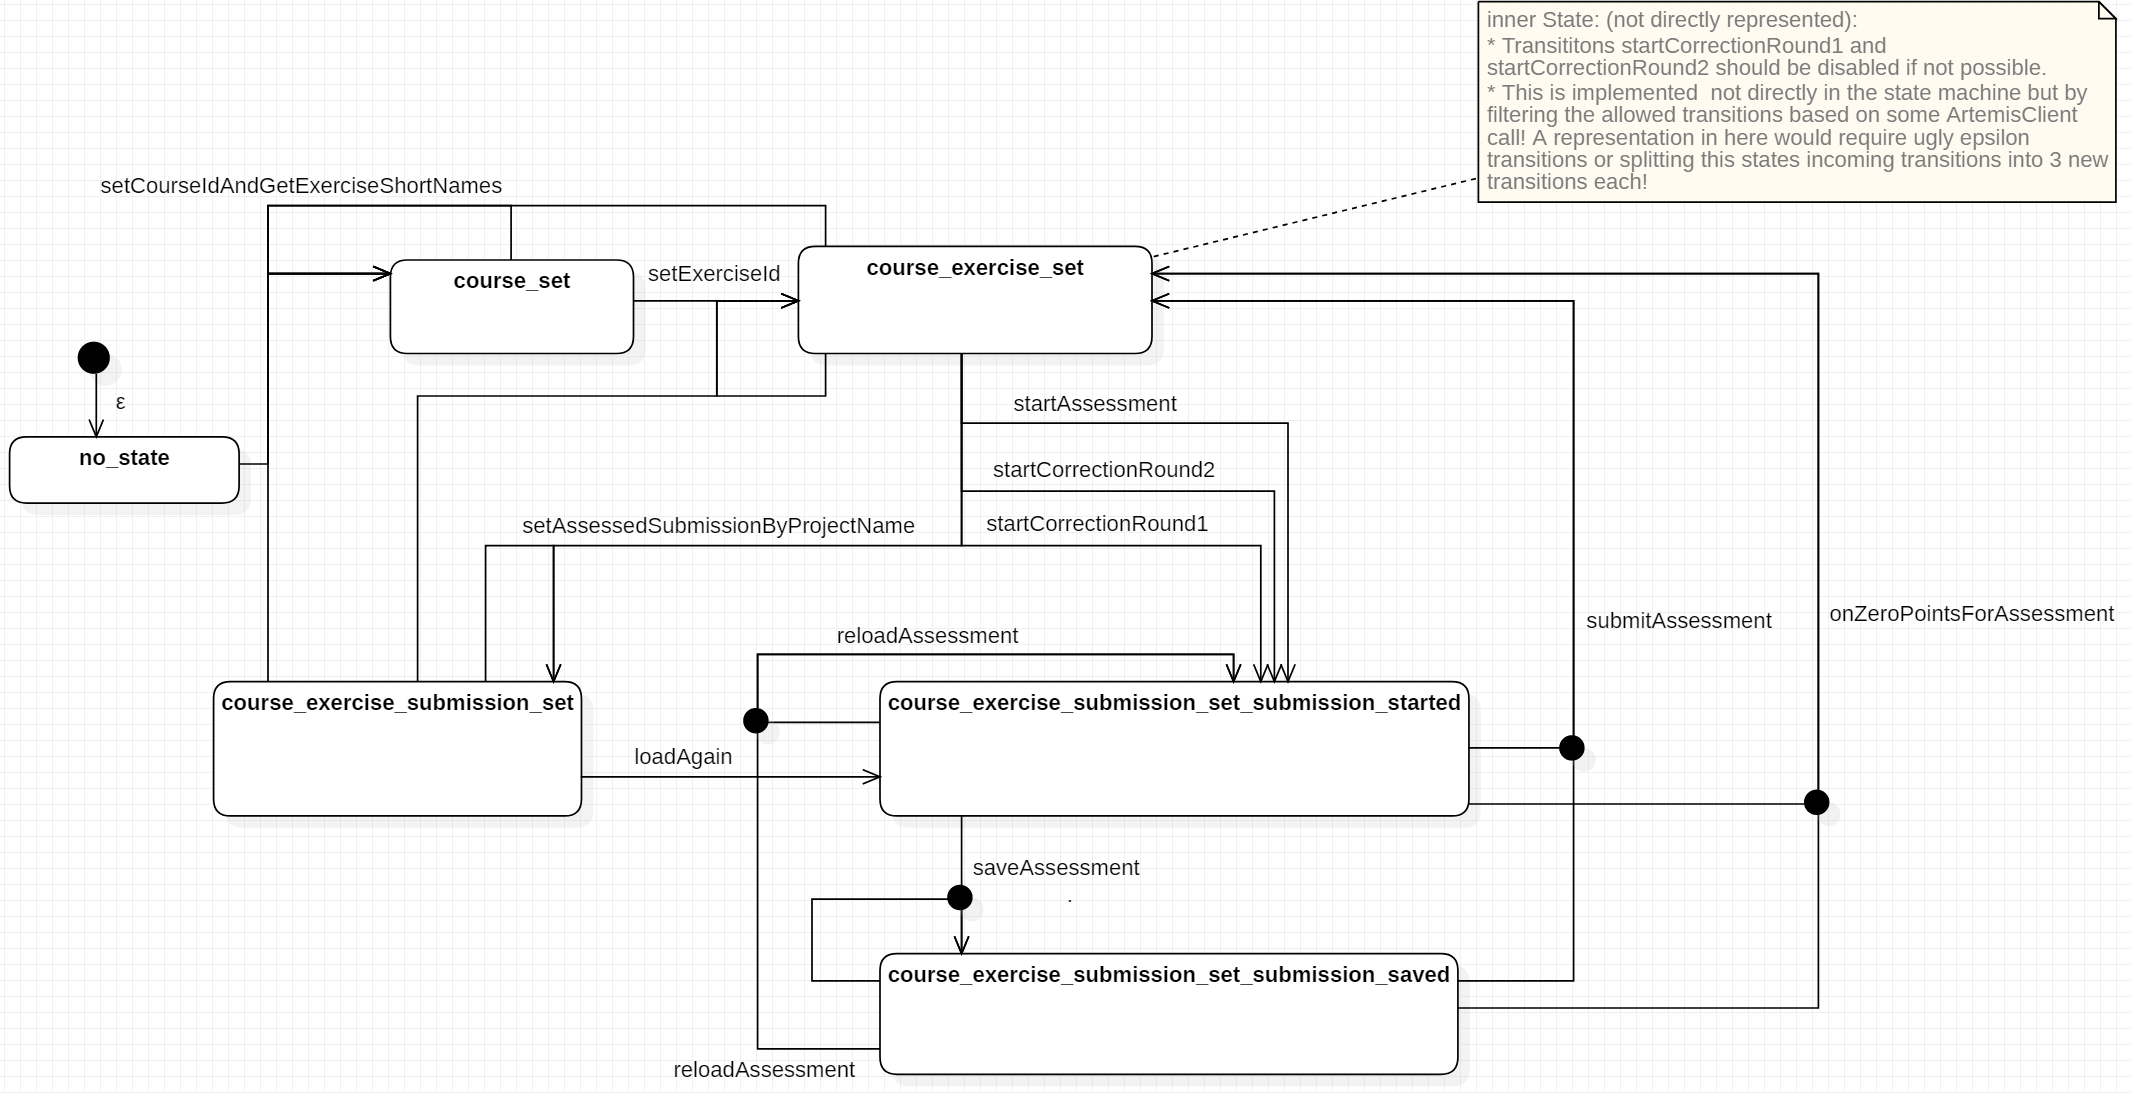
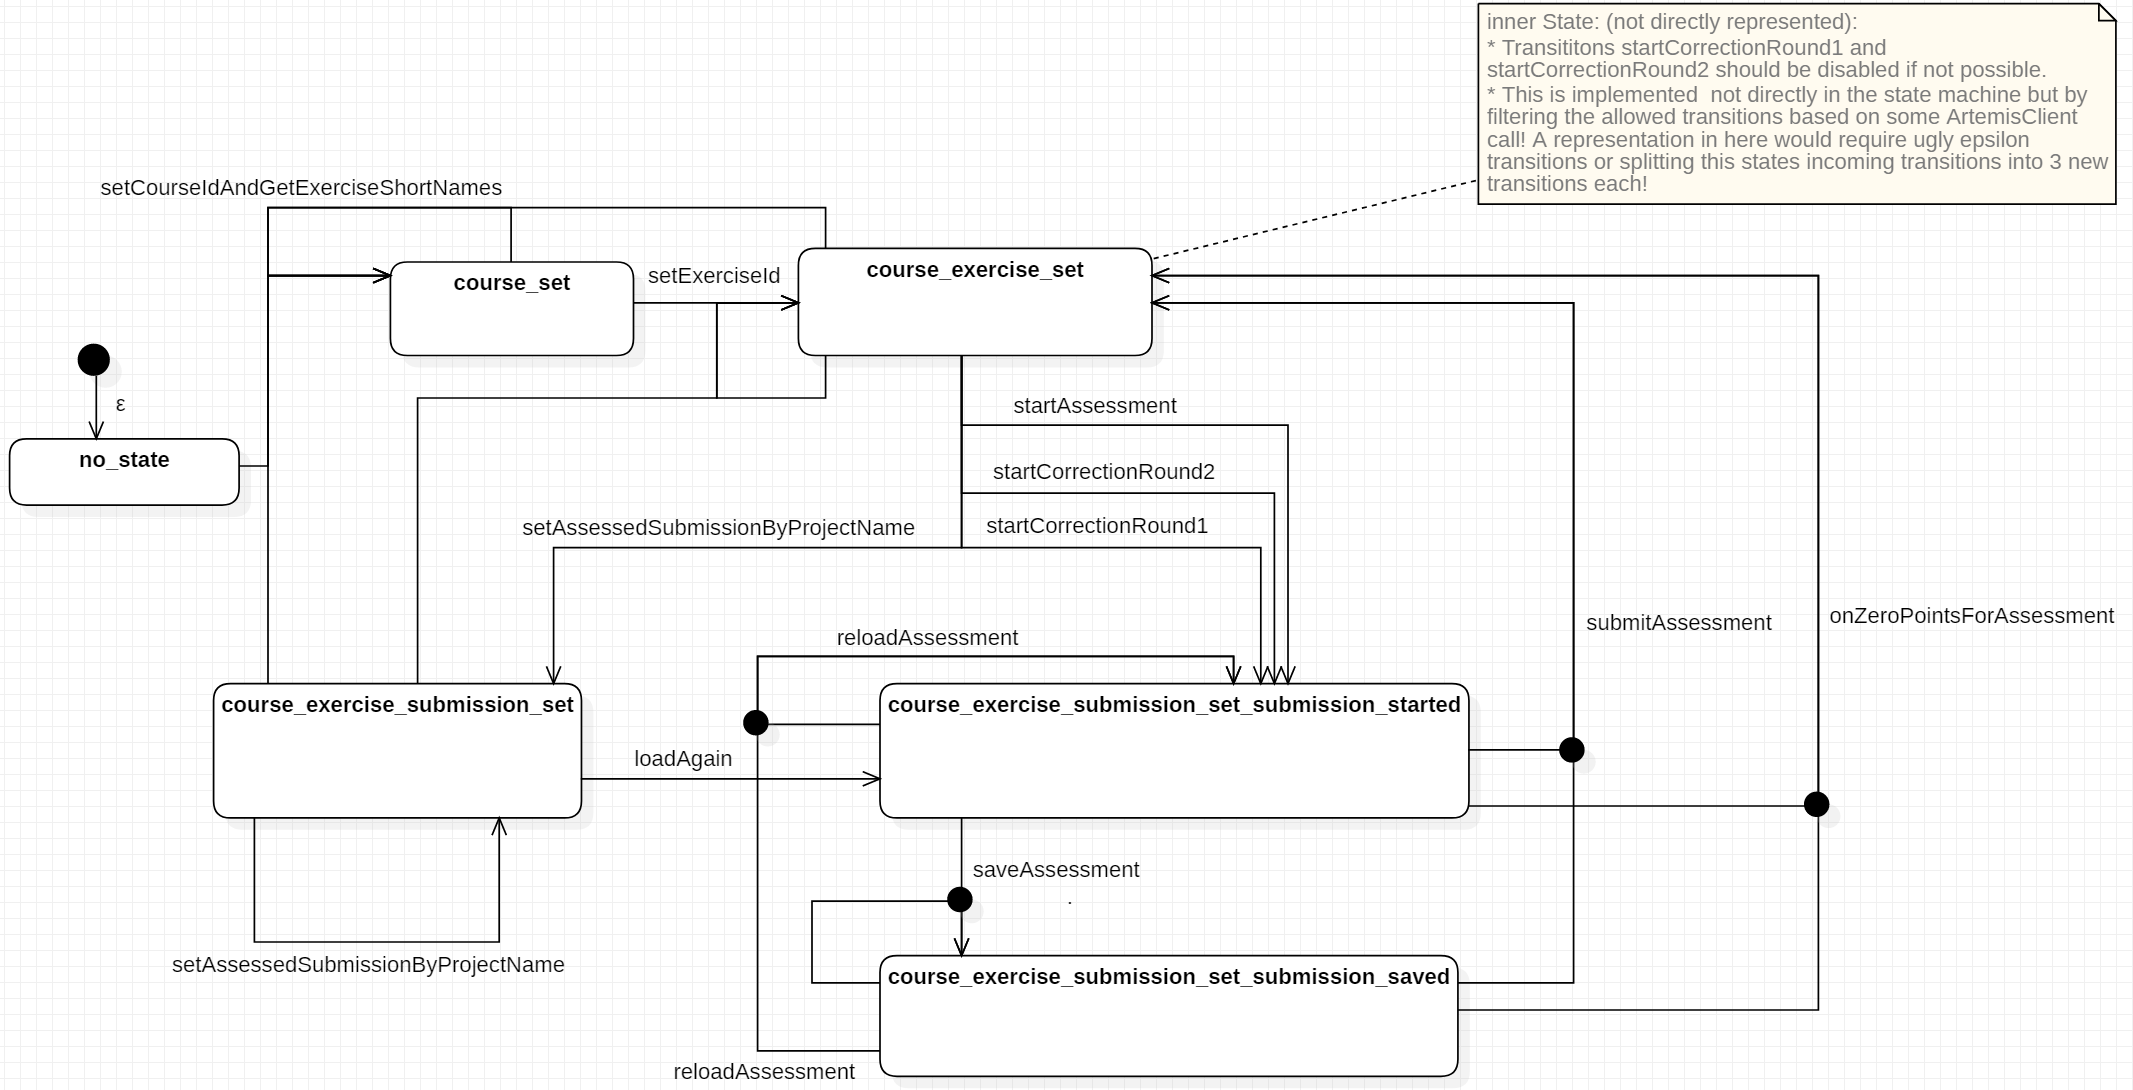
Update readme + automat. Add relative config logic in backend (untested)

diff --git a/bundles/edu.kit.kastel.sdq.eclipse.grading.core/src/edu/kit/kastel/sdq/eclipse/grading/core/SystemwideController.java b/bundles/edu.kit.kastel.sdq.eclipse.grading.core/src/edu/kit/kastel/sdq/eclipse/grading/core/SystemwideController.java
@@ -9,6 +9,7 @@ import java.util.Optional;
 import java.util.Set;
 import java.util.stream.Collectors;
 
+import org.eclipse.core.resources.ResourcesPlugin;
 import org.eclipse.jface.preference.IPreferenceStore;
 
 import edu.kit.kastel.sdq.eclipse.grading.api.IArtemisController;
@@ -46,22 +47,46 @@ public class SystemwideController implements ISystemwideController {
 
 	private BackendStateMachine backendStateMachine;
 
+	private IPreferenceStore preferenceStore;
+
 	public SystemwideController(final File configFile, final String artemisHost, final String username, final String password) {
+		this(artemisHost, username, password);
 		this.setConfigFile(configFile);
+	}
+
+	public SystemwideController(final IPreferenceStore preferenceStore) {
+		this(
+				preferenceStore.getString(PreferenceConstants.ARTEMIS_URL),
+				preferenceStore.getString(PreferenceConstants.ARTEMIS_USER),
+				preferenceStore.getString(PreferenceConstants.ARTEMIS_PASSWORD));
+		this.preferenceStore = preferenceStore;
+
+		//initialize config
+		this.updateConfigFile();
+
+
+		//change preferences ! TODO we dont need that. We always poll on  downloading!
+//		this.preferenceStore.addPropertyChangeListener(new IPropertyChangeListener() {
+//			@Override
+//			public void propertyChange(PropertyChangeEvent event) {
+//				if (event.getProperty().equals(PreferenceConstants.ABSOLUTE_CONFIG_PATH)
+//						|| event.getProperty().equals(PreferenceConstants.RELATIVE_CONFIG_PATH)
+//						|| event.getProperty().equals(PreferenceConstants.IS_RELATIVE_CONFIG_PATH)) {
+//					updateConfigFile();
+//				}
+//
+//			}
+//		});
+	}
+
+	private SystemwideController(final String artemisHost, final String username, final String password) {
 		this.assessmentControllers = new HashMap<>();
 		this.alertObservable = new AlertObservable();
 
 		this.artemisGUIController = new ArtemisController(this, artemisHost, username, password);
 		this.projectFileNamingStrategy = new DefaultProjectFileNamingStrategy();		//TODO durch das ganze projekt durchreichen! NUR hier instanziieren!
 		this.backendStateMachine = new BackendStateMachine();
-	}
 
-	public SystemwideController(final IPreferenceStore preferenceStore) {
-		this(new File(
-				preferenceStore.getString(PreferenceConstants.ABSOLUTE_CONFIG_PATH)),
-				preferenceStore.getString(PreferenceConstants.ARTEMIS_URL),
-				preferenceStore.getString(PreferenceConstants.ARTEMIS_USER),
-				preferenceStore.getString(PreferenceConstants.ARTEMIS_PASSWORD));
 	}
 
 	private boolean applyTransitionAndNotifyIfNotAllowed(Transition transition) {
@@ -84,13 +109,13 @@ public class SystemwideController implements ISystemwideController {
 		return this.artemisGUIController;
 	}
 
-
 	private IAssessmentController getAssessmentController(int submissionID, int courseID,
 			int exerciseID) {
 		//not equivalent to putIfAbsent!
 		this.assessmentControllers.computeIfAbsent(submissionID, submissionIDParam -> new AssessmentController(this, courseID, exerciseID, submissionID));
 		return this.assessmentControllers.get(submissionID);
 	}
+
 
 	private Collection<ISubmission> getBegunSubmissions(ISubmission.Filter submissionFilter) {
 		if (this.nullCheckMembersAndNotify(true, true, false)) return List.of();
@@ -218,6 +243,7 @@ public class SystemwideController implements ISystemwideController {
 	public void reloadAssessment() {
 		if (this.applyTransitionAndNotifyIfNotAllowed(Transition.RELOAD_ASSESSMENT)) return;
 		if (this.nullCheckMembersAndNotify(true, true, true)) return;
+		this.updateConfigFile();
 
 		this.getCurrentAssessmentController().resetAndRestartAssessment();
 	}
@@ -310,6 +336,7 @@ public class SystemwideController implements ISystemwideController {
 
 	private boolean startAssessment(int correctionRound) {
 		if (this.nullCheckMembersAndNotify(true, true, false)) return false;
+		this.updateConfigFile();
 
 		Optional<Integer> optionalSubmissionID = this.getArtemisGUIController().startNextAssessment(this.exerciseID, correctionRound);
 		if (optionalSubmissionID.isEmpty()) {
@@ -352,6 +379,20 @@ public class SystemwideController implements ISystemwideController {
 			this.getCurrentAssessmentController().deleteEclipseProject();
 			this.assessmentControllers.remove(this.submissionID);
 			this.submissionID = null;
+		}
+	}
+
+	private void updateConfigFile() {
+		if (this.preferenceStore.getBoolean(PreferenceConstants.IS_RELATIVE_CONFIG_PATH)) {
+			if (this.courseID != null && this.exerciseID != null && this.submissionID != null) {
+				//not the case at startup with rel config path chosen!
+				this.setConfigFile(new File(
+						ResourcesPlugin.getWorkspace().getRoot().getProject(this.getCurrentProjectName()).getLocation().toFile(),
+						this.preferenceStore.getString(PreferenceConstants.RELATIVE_CONFIG_PATH)));
+			}
+		} else {
+			this.setConfigFile(new File(this.preferenceStore.getString(PreferenceConstants.ABSOLUTE_CONFIG_PATH)));
+
 		}
 	}
 }

diff --git a/README.md b/README.md
@@ -98,6 +98,11 @@ TODO architecture doc. (tolles Bild)
 
 For keeping the backend state sane and consistent, we use a state machine. That allows for greying out buttons in the gui:
 ![backend state machine](docs/Zustandshaltung-Automat.png)
+TODO Further explain the state machine (code-wise)
+* On every state-modifying call to *edu.kit.kastel.sdq.eclipse.grading.core.SystemwideController* (represented by edges in the state machine graph), the according transition is applied in the state machine. If it isn't possible, the transition is not applied and the GUI is notified.
+* Each "transition class" (represented by its name) has **one single** *next_state* and multiple *from_state*s.
+* In every state, it is known, which transitions are allowed. These are retrieved via ISystemwideController::getCurrentlyPossibleTransitions() by the GUI.
+* In certain situations, a state is changed but then reverted. This is not done across calls, so the gui does not notice that.
 
 ### Creating a new PenaltyRule
 
